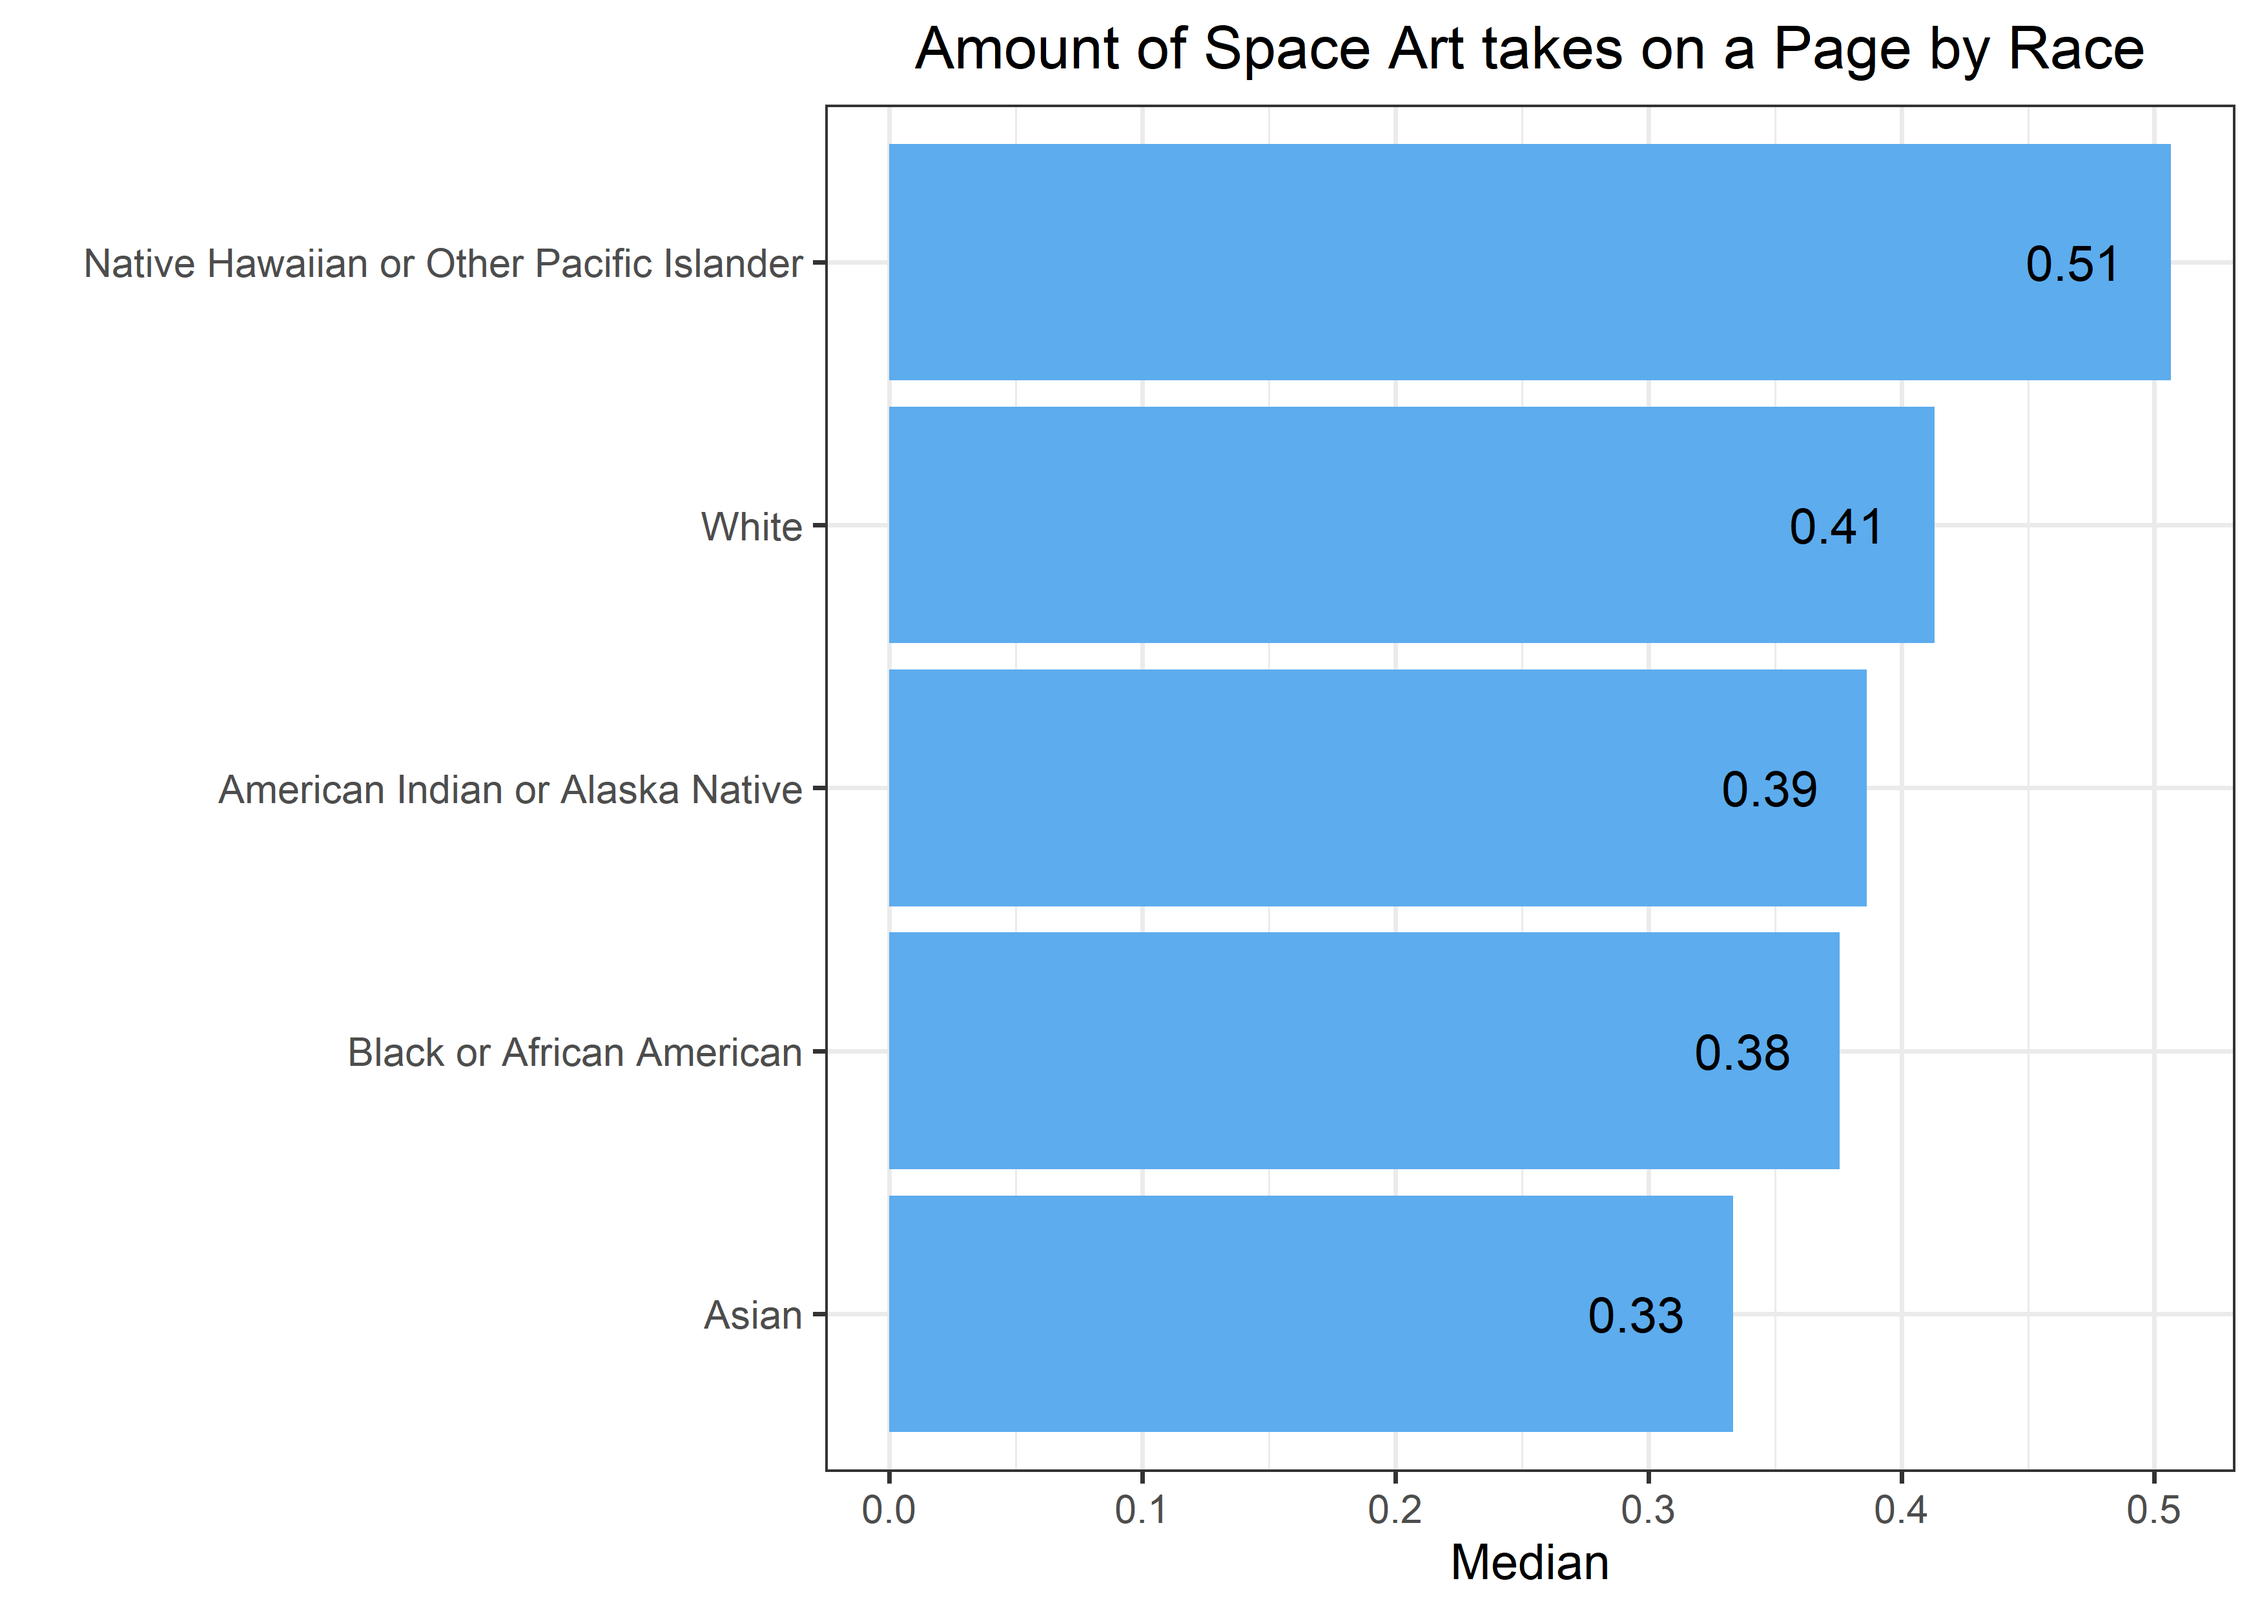
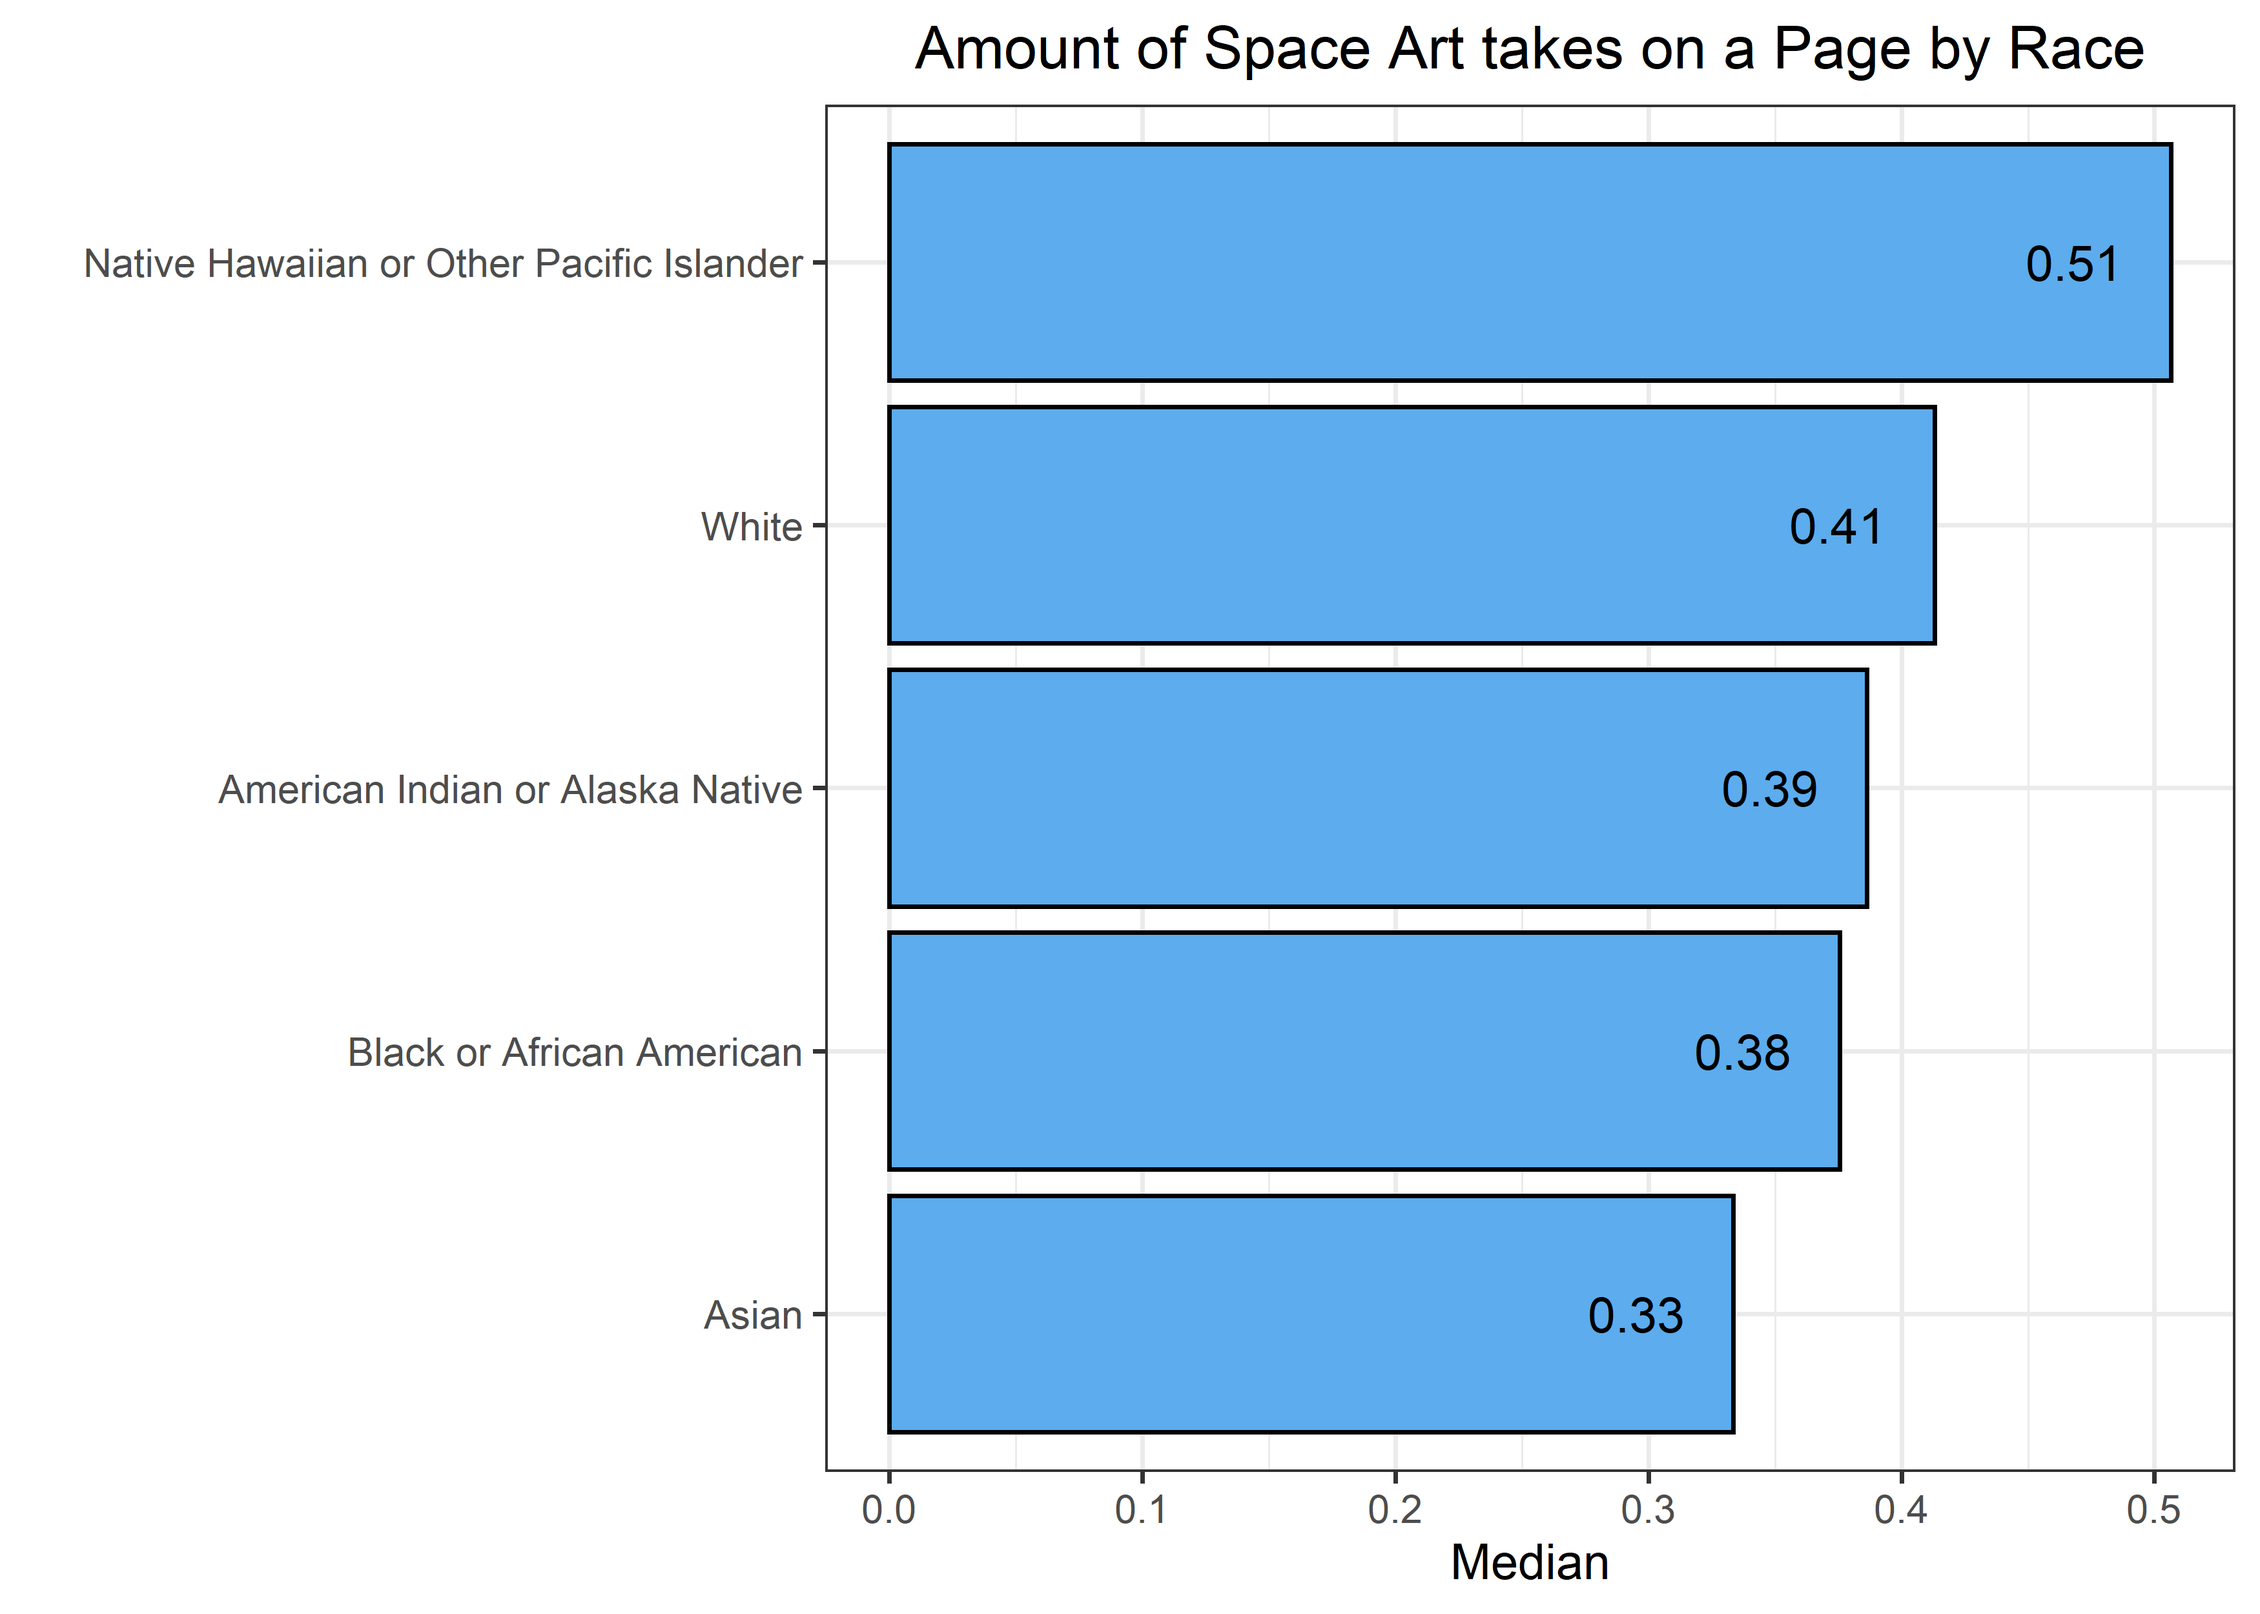
artist space on page

diff --git a/2023/01-17-23/Art-Publications.md b/2023/01-17-23/Art-Publications.md
@@ -13,6 +13,7 @@ Matthew
         -   <a href="#book" id="toc-book">Book</a>
         -   <a href="#amount-of-space-on-the-page"
             id="toc-amount-of-space-on-the-page">Amount of Space on the Page</a>
+    -   <a href="#artist" id="toc-artist">Artist</a>
 
 ``` r
 artist <- read_csv('https://raw.githubusercontent.com/rfordatascience/tidytuesday/master/data/2023/2023-01-17/artists.csv')
@@ -224,9 +225,27 @@ artist %>%
   group_by(race) %>% 
   summarize(median = median(space_ratio_per_page_total)) %>% 
   ggplot(aes(median, fct_reorder(race, median))) +
-  geom_col(fill = "steelblue2") +
+  geom_col(color = "black", fill = "steelblue2") +
   geom_text(aes(label = round(median, 2)), hjust = 1.5) +
   labs(y = "", x = "Median", title = "Amount of Space Art takes on a Page by Race")
 ```
 
 ![](Art-Publications_files/figure-gfm/unnamed-chunk-10-1.png)<!-- -->
+
+## Artist
+
+``` r
+artist %>% 
+  group_by(name, nationality) %>% 
+  summarize(avg_space = mean(space_ratio_per_page_total, na.rm = TRUE)) %>% 
+  ungroup() %>% 
+  slice_max(avg_space, n = 10) %>% 
+  ggplot() +
+  geom_col(aes(avg_space, fct_reorder(name, avg_space), fill = nationality)) +
+  labs(y = "", x = "", "Average Art Space on Page by Artist") 
+```
+
+    ## `summarise()` has grouped output by 'name'. You can override using the
+    ## `.groups` argument.
+
+![](Art-Publications_files/figure-gfm/unnamed-chunk-11-1.png)<!-- -->
